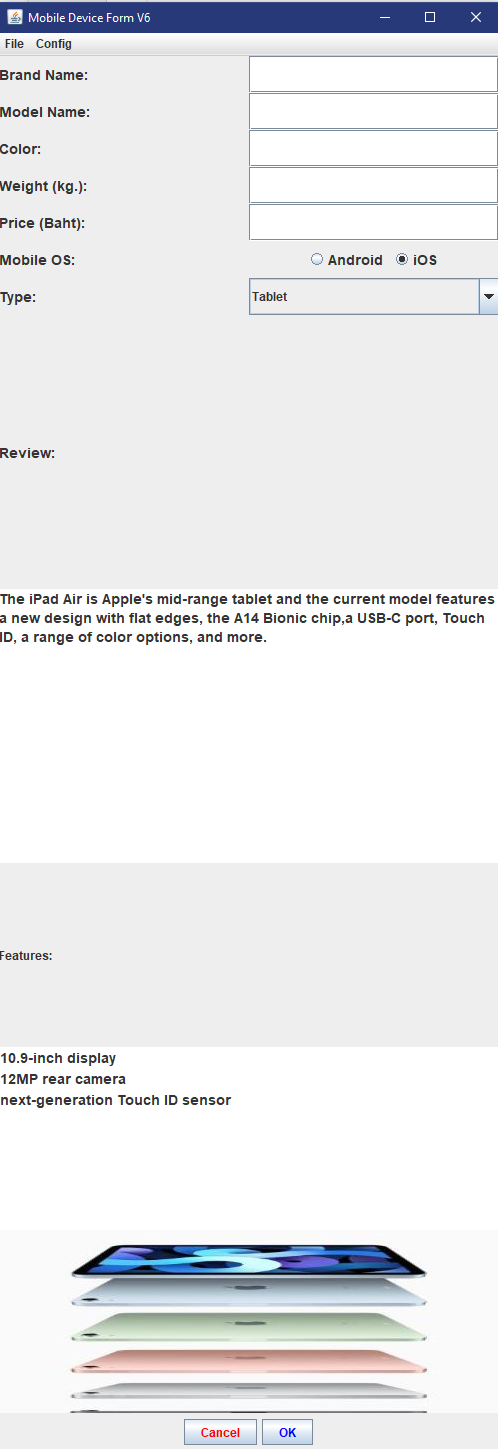
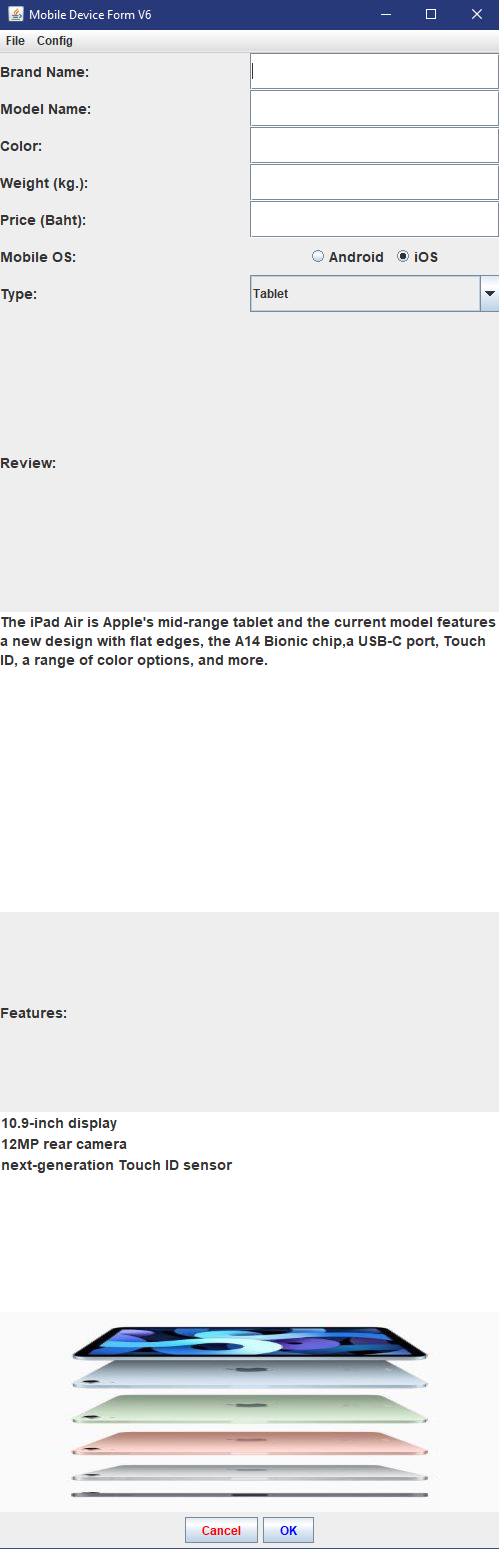
'commit'

diff --git a/butryojantho/sirawitch/lab8/MobileDeviceFormV6.java b/butryojantho/sirawitch/lab8/MobileDeviceFormV6.java
@@ -44,9 +44,6 @@ public class MobileDeviceFormV6 extends MobileDeviceFormV5 {
         msw.setFrameFeatures();
     }
 
-    protected void addMenus() {
-        super.addMenus();
-    }
 
     protected void addComponents() {
         super.addComponents();
@@ -56,6 +53,7 @@ public class MobileDeviceFormV6 extends MobileDeviceFormV5 {
         featurePanel.setLayout(new GridLayout(3,1));
         infoPanel.setLayout(new GridLayout(2, 1));
         featureLabel = new JLabel("Features:");
+        featureLabel.setFont(font14Bold);
         featureList = new JList(featureArray);
         featureList.setFont(font14Bold);
         featurePanel.add(featureLabel);
@@ -66,18 +64,6 @@ public class MobileDeviceFormV6 extends MobileDeviceFormV5 {
 
     public MobileDeviceFormV6(String title) {
         super(title);
-    }
-
-    protected void setFrameFeatures() {
-        super.setFrameFeatures();
-    }
-
-    protected void setFontsColor() {
-        super.setFontsColor();
-    }
-
-    protected void setFormValues() {
-        super.setFormValues();
     }
     
     protected class ReadImage<BufferedImage> extends JPanel {

diff --git a/butryojantho/sirawitch/lab9/MobileDeviceFormV7.java b/butryojantho/sirawitch/lab9/MobileDeviceFormV7.java
@@ -1,0 +1,36 @@
+package butryojantho.sirawitch.lab9;
+
+import java.awt.*;
+import java.io.File;
+import java.io.IOException;
+import java.net.URL;
+
+import javax.imageio.ImageIO;
+import javax.swing.*;
+import javax.swing.plaf.DimensionUIResource;
+
+import butryojantho.sirawitch.lab8.MobileDeviceFormV6;
+
+public class MobileDeviceFormV7 extends MobileDeviceFormV6 {
+    
+    public static void main(String[] args) {
+        SwingUtilities.invokeLater(new Runnable() {
+            public void run() {
+                createAndShowGUI();
+            }
+        });
+    }
+
+    public static void createAndShowGUI() {
+        MobileDeviceFormV7 msw = new MobileDeviceFormV7("Mobile Device Form V7");
+        msw.addComponents();
+        msw.addMenus();
+        msw.setFrameFeatures();
+    }
+
+    public MobileDeviceFormV7(String title) {
+        super(title);
+    }
+
+
+}

diff --git a/butryojantho/sirawitch/lab8/MobileDeviceFormV4.java b/butryojantho/sirawitch/lab8/MobileDeviceFormV4.java
@@ -36,10 +36,6 @@ public class MobileDeviceFormV4 extends MobileDeviceFormV3 {
         msw.setFrameFeatures();
     }
 
-    protected void setFrameFeatures() {
-        super.setFrameFeatures();
-    }
-
     public static void main(String[] args) {
         SwingUtilities.invokeLater(new Runnable() {
             public void run() {

diff --git a/butryojantho/sirawitch/lab8/MobileDeviceFormV5.java b/butryojantho/sirawitch/lab8/MobileDeviceFormV5.java
@@ -45,10 +45,6 @@ public class MobileDeviceFormV5 extends MobileDeviceFormV4 {
         super.setFrameFeatures();
     }
 
-    protected void addMenus() {
-        super.addMenus();
-    }
-
     @Override
     protected void addComponents() {
         super.addComponents();
